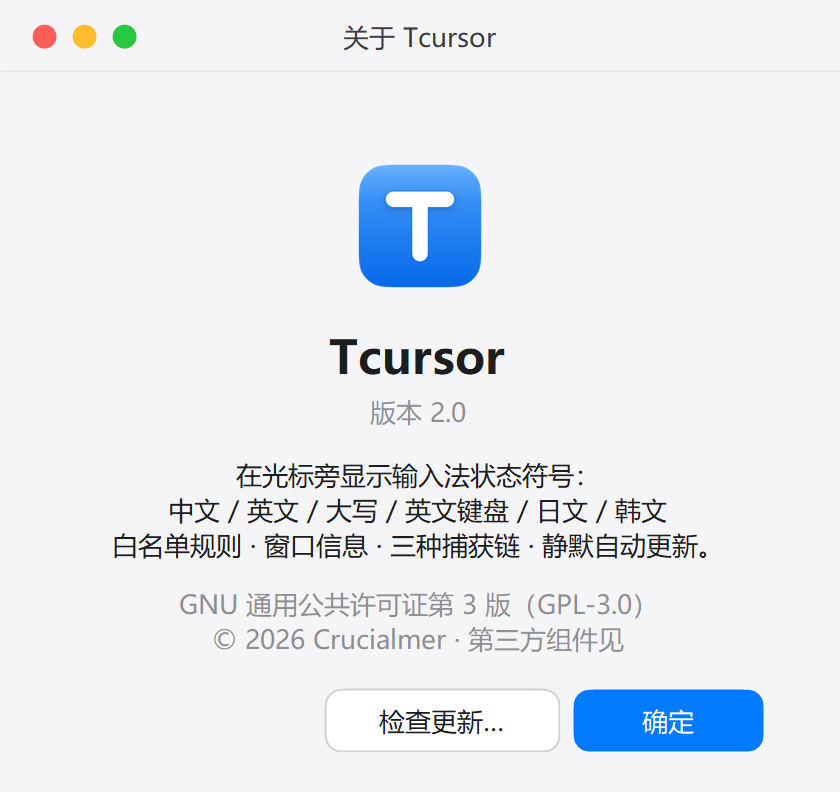
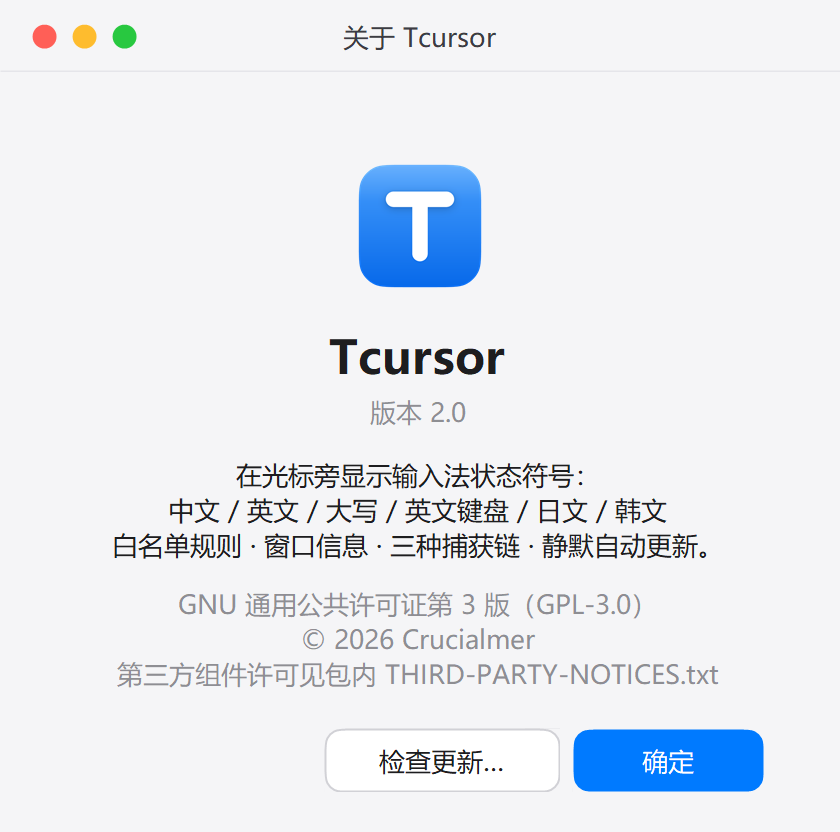
v2.0 收尾：修复高 DPI 自绘控件塌缩与「关于」窗许可行裁切
一、高 DPI 下数字框内嵌文本框塌缩（真实缺陷，200% 缩放下实测）
- 现象：设置窗全部数字框里的数值被裁（“500”→“50”、“20”→“2(”）。用 `Shots.exe <dir> dpi`
  （以真实设置窗为样本打印每个自绘控件的内嵌 bounds）实测：内嵌文本框只剩 20px 宽。
- 根因：窗体 `AutoScaleMode.Dpi` 在句柄创建时把子控件 Width 58→116 等，但**不保证触发子控件
  的 OnLayout/OnResize**，而 `MacNumberField.LayoutEdit()` 只在构造时跑过一次 → 内嵌框停在旧布局。
- 修法：`MacNumberField`/`MacField` 增加 `OnResize` + `OnDpiChangedAfterParent` 重排，并在
  `OnPaint` 开头做幂等“布局自愈”兜底；数字框偏窄时把步进器宽度收到 1/4，保证文本区 ≥ 3/4。
- 复测：内嵌文本框 48/56/88/60px、垂直居中；截图确认 500 / 0 / 20 完整显示。

二、「关于」窗许可信息第二行被窗口宽度裁切
- 修法：拆为两行（“© 2026 Crucialmer” / “第三方组件许可见包内 THIRD-PARTY-NOTICES.txt”），
  窗体高度 360→380（设计像素），避免长行溢出。

三、测试工具增强（不入发布物）
- `bench/shots` 新增 `dpi` 模式：以真实设置窗为样本逐控件打印内嵌 bounds，改 UI 后先跑它。
- `bench/chromium-probe`：点击改为「按 UIA 元素矩形中心」（HTML id → AutomationId；普通 div 用
  文本名），并按窗口 DPI 缩放兜底固定点；页面版式压到 420×250 CSS 内以适配高 DPI 的窄 CSS 视口；
  测试期间 Chrome 置顶（防本机窗口遮挡）；每次运行前清 Chrome profile 并加
  `--hide-crash-restore-bubble --noerrdialogs`（防「要恢复页面吗？」对话框抢前台）；
  退出时按页面标题清理测试用 Chrome（不误杀用户自己的 Chrome）。

验证：构建 0 警告 0 错误；chromium 5 场景在 200% 缩放下 RESULT: OK（①④ 正确显示、②③⑤ 隐藏
515/—/516ms）；规则列表探针 RESULT: OK；窗口落点 4/4；截图与 docs 已同步。

diff --git a/dotnet/Tcursor/Ui/AboutForm.cs b/dotnet/Tcursor/Ui/AboutForm.cs
@@ -19,7 +19,7 @@ internal sealed class AboutForm : MacDialogForm
         SuspendLayout();
         Text = "关于 Tcursor";
         StartPosition = FormStartPosition.Manual;   // 位置在 Load 里贴右下角（托盘区）
-        ClientSize = new Size(420, 360 + MacDialogForm.HeaderDesignPx);
+        ClientSize = new Size(420, 380 + MacDialogForm.HeaderDesignPx);
         Font = UiTheme.Font;
         BackColor = UiTheme.WindowBg;
         AutoScaleMode = AutoScaleMode.Dpi;
@@ -62,7 +62,8 @@ internal sealed class AboutForm : MacDialogForm
         var license = new Label
         {
             Text = "GNU 通用公共许可证第 3 版（GPL-3.0）" + Environment.NewLine +
-                   "© 2026 Crucialmer · 第三方组件见 THIRD-PARTY-NOTICES.txt",
+                   "© 2026 Crucialmer" + Environment.NewLine +
+                   "第三方组件许可见包内 THIRD-PARTY-NOTICES.txt",
             AutoSize = true,
             MaximumSize = new Size(340, 0),
             TextAlign = ContentAlignment.MiddleCenter,

diff --git a/CHANGELOG.md b/CHANGELOG.md
@@ -8,7 +8,7 @@
 - **数字输入框 → 自绘步进框**：圆角细边框 + 右侧上下步进器（悬停 / 按下反馈、按住连步、支持键入与 ↑ / ↓ 微调）；10 处原生 NumericUpDown 全部替换
 - **文本输入框 → 自绘字段**：圆角细边框、聚焦转强调色边框；内嵌真实文本框（选择 / 复制 / 输入法不受影响）——窗口信息 5 处 + 规则编辑 5 处 + 设置「默认捕获链」
 - **规则列表整表自绘**：复选框改为 macOS 圆角复选框 —— 修复**深色主题下原生复选框显示为亮白方块**的缺陷；选中行统一强调色、文字反白
-- **「关于」窗口改为 macOS 版式**：应用图标 + 居中名称 / 版本 + 说明 + 许可（原为左对齐文字卡片）
+- **「关于」窗口改为 macOS 版式**：应用图标 + 居中名称 / 版本 + 说明 + 许可（原为左对齐文字卡片）；许可信息拆为两行（原第二行超出窗口宽度被裁）
 - **托盘「提示 / 信息」类窗口统一落右下角**（贴托盘区，距工作区边 24 设计像素）：窗口信息、关于、更新进度、托盘直接触发的消息框；有父窗体的对话框仍居中于父窗体
 - **禁用态主按钮改中性灰**（原为淡蓝 / 深蓝，不符合 macOS 惯例）；**窗口信息窗高度贴合内容**（原底部留大片空白）
 - 细节：规则窗说明文案收紧为两行；「编辑规则」窗口标题统一为「…… - Tcursor」；关于窗状态清单补全为中文 / 英文 / 大写 / 英文键盘 / 日文 / 韩文
